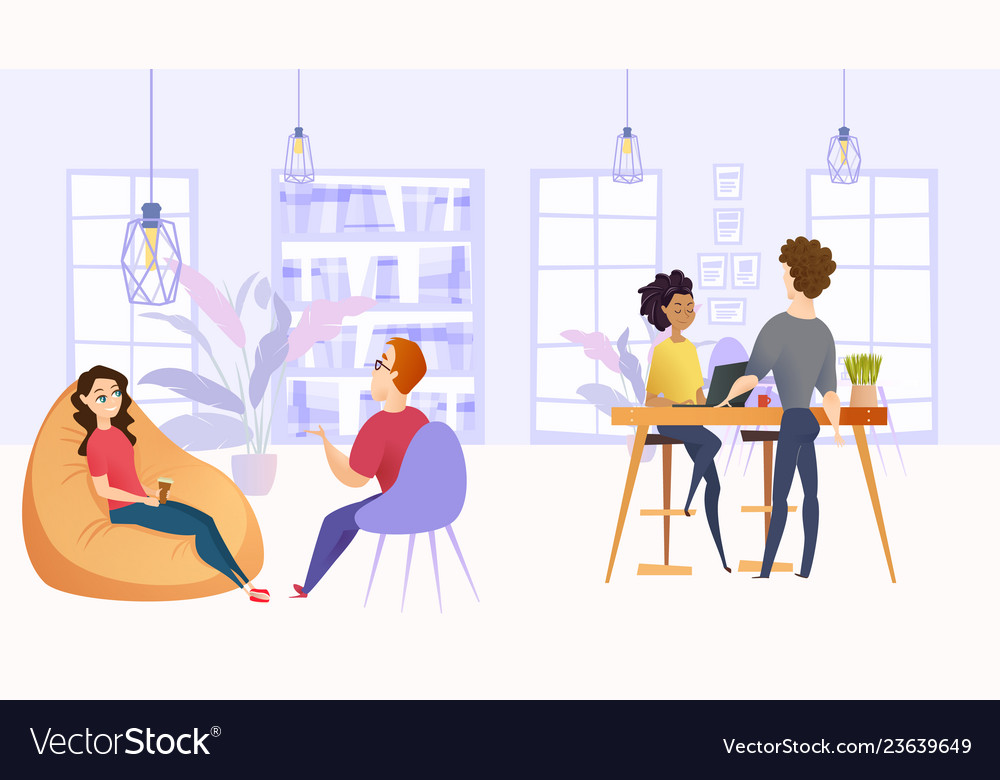
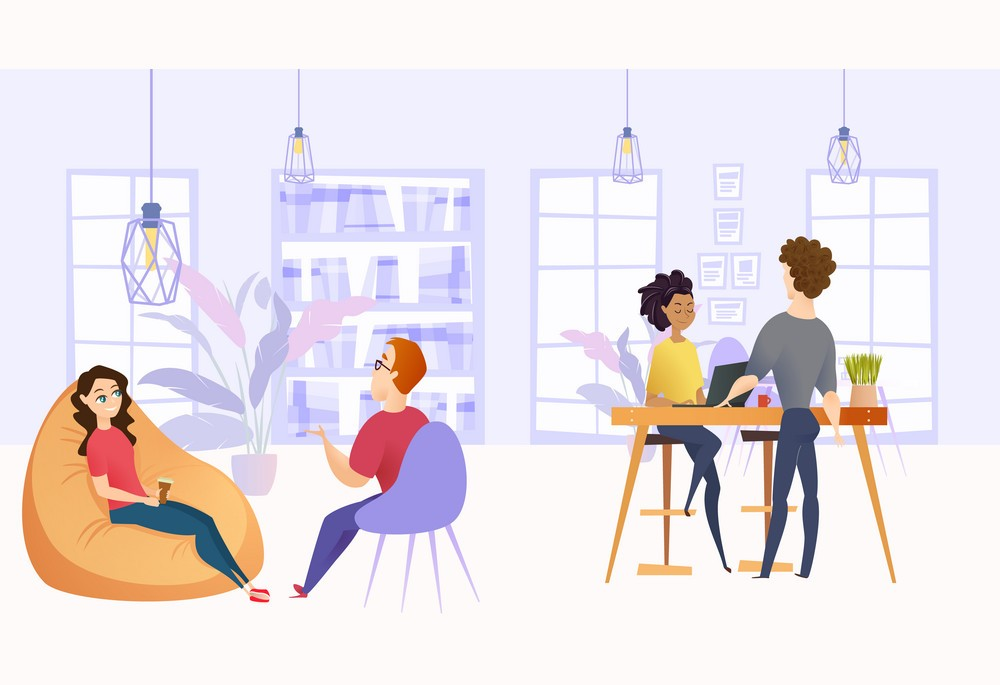
q1 image works and is updated on website

diff --git a/src/SimpleQuiz.tsx b/src/SimpleQuiz.tsx
@@ -1,5 +1,6 @@
 import React, { useState, useEffect } from "react";
 import { Container, Card, Button, Navbar, Nav, Form, InputGroup, ProgressBar, Modal } from "react-bootstrap";
+import simpleQ1 from "C:/Users/ketsi/OneDrive/Documents/CISC275/CISC275_Starter-1/src/images/simple-q1.jpg";
 
 const SimpleQuizPage = ({ navigateTo }: { navigateTo: (page: string) => void }) => {
   const [search, setSearch] = useState("");
@@ -150,11 +151,13 @@ const SimpleQuizPage = ({ navigateTo }: { navigateTo: (page: string) => void }) 
           {/* Question 1 */}
           <Card className="mb-4 p-3">
             <h5>1. What type of work environment do you prefer?</h5>
+            
             <img 
-              src="https://cdn3.careeraddict.com/uploads/article/59060/illustration-men-interview-busy-environment.jpg" 
-              alt="Work Environment" 
-              style={{ width: "200%", maxWidth: "450px", height: "auto", display: "block", margin: "10px auto", borderRadius: "8px" }}
+            src={simpleQ1} 
+            alt="Work Environment" 
+            style={{ width: "200%", maxWidth: "450px", height: "auto", display: "block", margin: "10px auto", borderRadius: "8px" }}
             />
+
             <Form>
               <Form.Check type="radio" label="🏢 Office-based" name="q1"   onChange={() => handleAnswer(0, "Office-based")}  />
               <Form.Check type="radio" label="🌿 Outdoors" name="q1"   onChange={() => handleAnswer(0, "Outdoors")}  />
